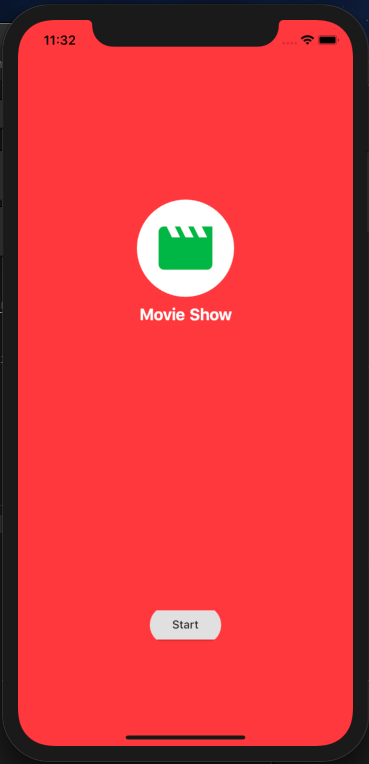
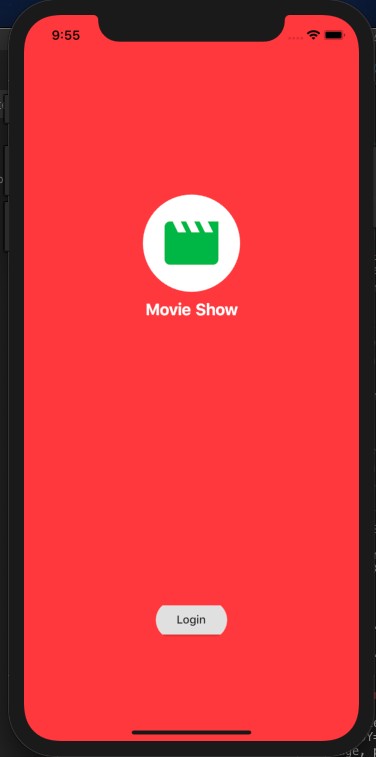
change some code

diff --git a/lib/home.dart b/lib/home.dart
@@ -30,9 +30,6 @@ class _HomePageState extends State<HomePage> {
             children: <Widget>[
               Row(
                 children: <Widget>[
-                  //Padding(
-                  //  padding: EdgeInsets.only(right: 6.0),
-                  //),
                   Image.network(
                     'http://image.tmdb.org/t/p/w780/' + m.posterPath,
                     width: 150.0,
@@ -52,7 +49,6 @@ class _HomePageState extends State<HomePage> {
                       ),
                       Row(
                         textBaseline: TextBaseline.alphabetic,
-                        //crossAxisAlignment: CrossAxisAlignment.baseline,
                         children: <Widget>[
                           Container(
                               width: 200.0,
@@ -71,9 +67,6 @@ class _HomePageState extends State<HomePage> {
                   )
                 ],
               )
-
-              //Text(m.popularity.toString()),
-              // Text(m.overview)
             ],
           ),
         ),

diff --git a/lib/movie.dart b/lib/movie.dart
@@ -11,7 +11,6 @@ class MoviePage extends StatefulWidget {
   _MoviePageState createState() => _MoviePageState();
 }
 
-// tesing comment 2
 class _MoviePageState extends State<MoviePage> {
   @override
   Widget build(BuildContext context) {
@@ -24,13 +23,6 @@ class _MoviePageState extends State<MoviePage> {
       ),
       body: CustomScrollView(
         slivers: <Widget>[
-          //const SliverAppBar(
-          //  pinned: true,
-          //  expandedHeight: 25.0,
-          //  flexibleSpace: FlexibleSpaceBar(
-          //    title: Text('Demo'),
-          //  ),
-          //),
           SliverList(
             delegate: SliverChildListDelegate([
               Container(

diff --git a/lib/main.dart b/lib/main.dart
@@ -28,7 +28,6 @@ class _MyAppState extends State<MyApp> {
     );
   }
 
-  // testing
   @override
   Widget build(BuildContext context) {
     return Scaffold(
@@ -79,7 +78,7 @@ class _MyAppState extends State<MyApp> {
                           borderRadius: BorderRadius.circular(30.0),
                           child: RaisedButton(
                             onPressed: () => _Press(),
-                            child: Text('Start'),
+                            child: Text('Login'),
                           ),
                         )
                       : CircularProgressIndicator(),

diff --git a/lib/home_bloc.dart b/lib/home_bloc.dart
@@ -42,10 +42,6 @@ class HomeBloc {
     _movieSubject.sink.add(value);
   }
 
-  // Stream<List<Movie>> getMovies() {
-  //   return _movieSubject.stream;
-  // }
-
   Stream<List<Movie>> get getMovies => _movieSubject.stream;
 
   Future<void> fetchData() async {
